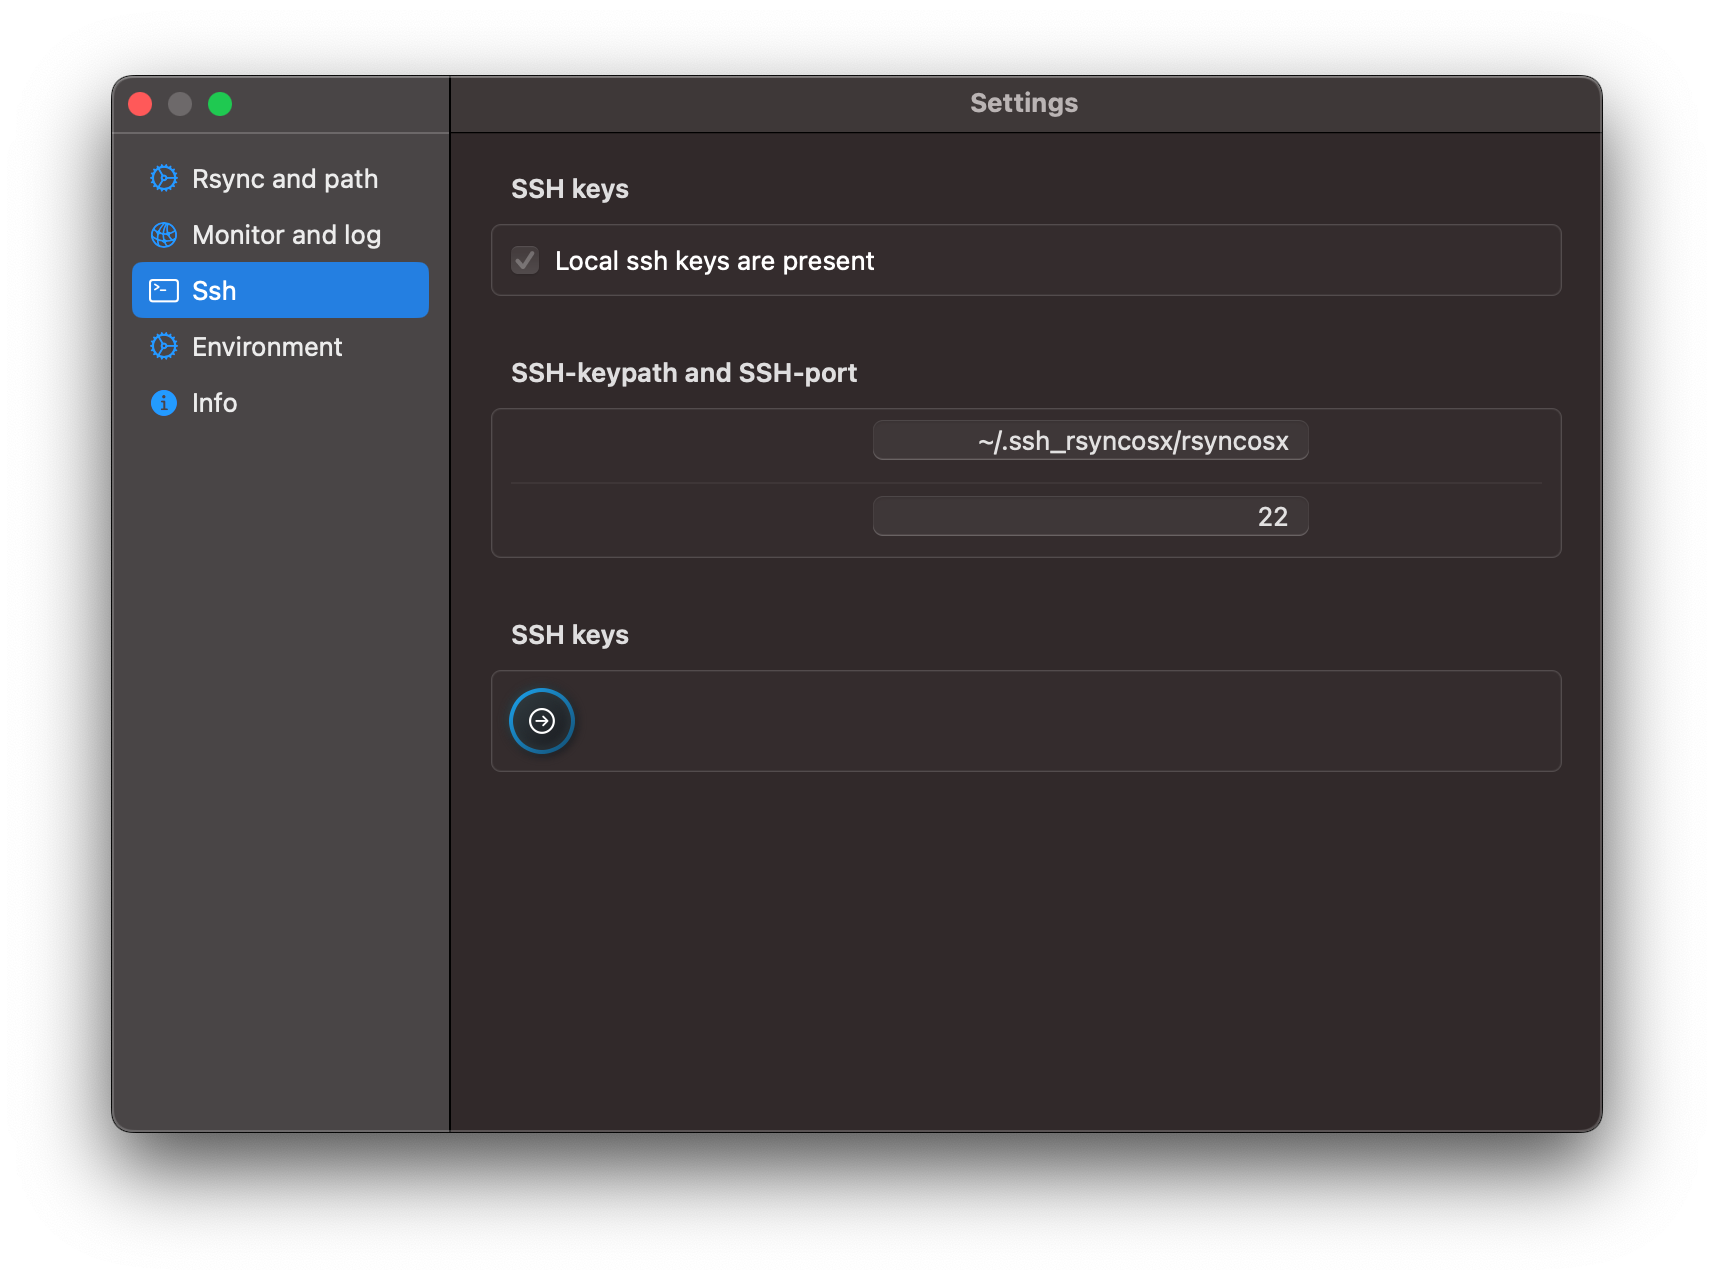
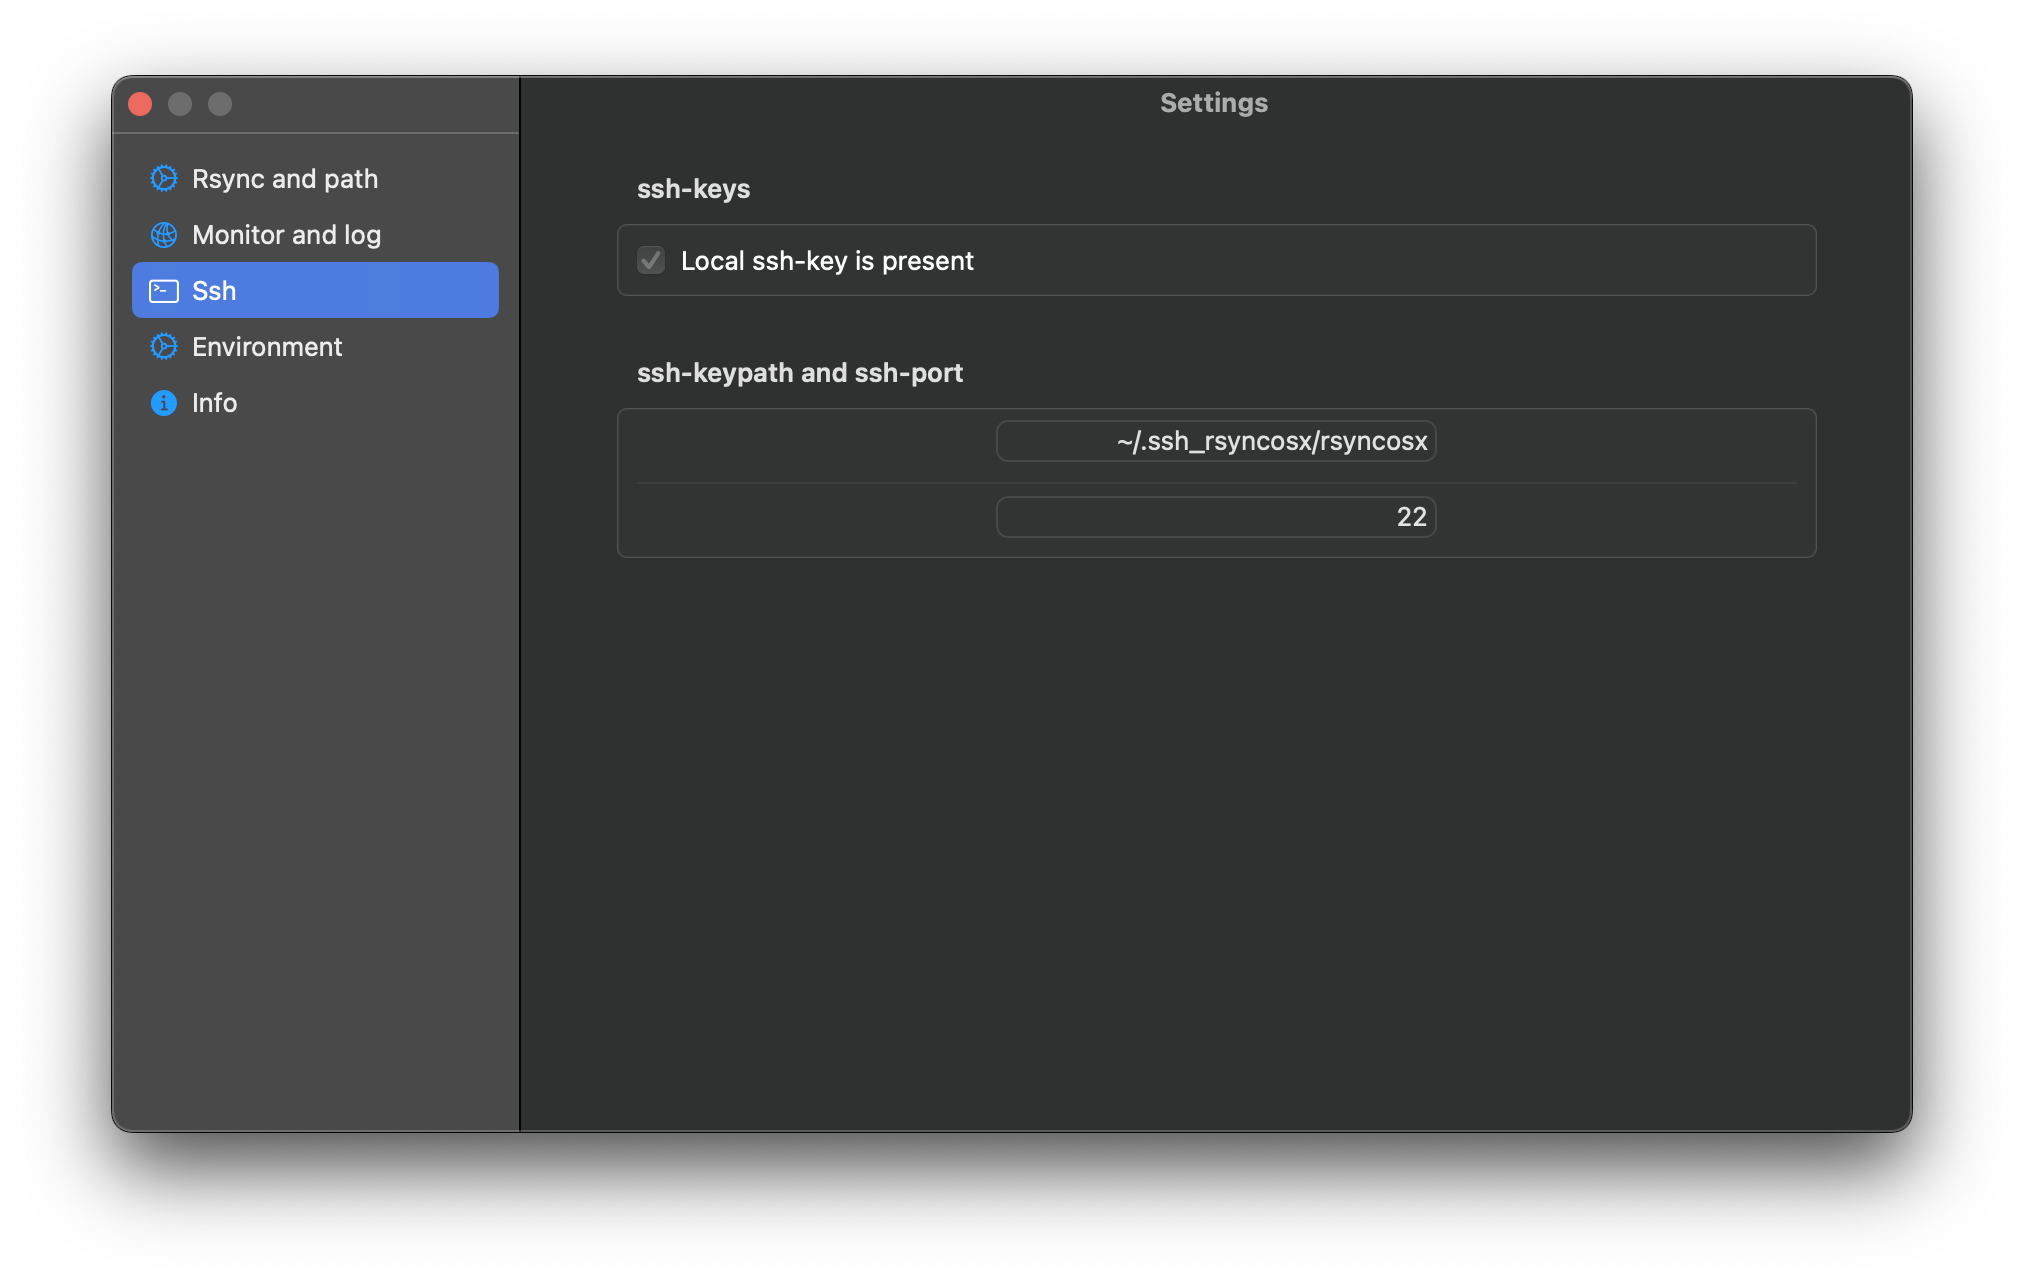
update

diff --git a/content/en/docs/settings/Sshsettings.md b/content/en/docs/settings/Sshsettings.md
@@ -10,9 +10,11 @@ lastmod = "2021-03-11"
 
 In this view you can let RsyncUI assist in creating ssh-keys and setup global ssh-keypath and identityfile. ssh-key is requiered for passwordless logins to remotes servers. You can either utilizing default values for ssh-keys or set your own. 
 
+There is some more info about [passwordless logins](/docs/ssh/).
+
 {{% /pageinfo %}}
 
-There is some more info [about ssh and passwordless logins](/docs/ssh/).
+
 
 {{< figure src="/images/usersettings/ssh.png" alt="" position="center" style="border-radius: 8px;" >}}
 
@@ -20,18 +22,18 @@ ssh keys
 
 {{< figure src="/images/usersettings/sshkeys.png" alt="" position="center" style="border-radius: 8px;" >}}
 
-## Local ssh keys found
+## Local ssh-key is present
 
-If `on` RsyncUI has found local ssh keys.
+If `on` RsyncUI has found a local ssh-key.
 
-Default values for ssh are `~/.ssh/id_rsa` and portnumber `22`. It is not required to set your own values for key path and identityfile if default values are used. If there are no local ssh keys selecting the `Create` button will create the keys. If ssh keys are found, either default values or by the user set keypath and identityfile, RsyncUI will mark it.
+Default values for RSA based ssh-key is `~/.ssh/id_rsa` and portnumber `22`. It is not required to set your own values for ssh-keypath and identityfile if default values are used. If there are no local ssh-key selecting the `Create` button will create the keys. If ssh-key is present, either default values or by the user set ssh-keypath and identityfile, RsyncUI will mark it.
 
-## Set ssh keypath and identityfile
+## Set ssh-keypath and identityfile
 
 The user can set a selected ssh keypath and identityfile which applies to all configurations.
 
+- ssh-keypath + identityfile, user selected if other than default
 - portnumber, which `ssh` communicates through
-- keypath + identityfile, user selected if other than default
 
 If global values are set, this is what the ssh parameter within the rsync command looks like
 

diff --git a/content/en/docs/settings/rsyncandpath.md b/content/en/docs/settings/rsyncandpath.md
@@ -40,10 +40,8 @@ Tasks with older execute date than number of days are marked red.
 
 ## Backup configurations
 
-You can any time backup the current setup, configurations and logs including all profiles by the `wrench` button. The backup executes a copy to your Documents catalog and postfixes the copy with a timestamp `-month-day-year/hour/minute`.
+You can any time backup the current setup, configurations and logs including all profiles by the `wrench` button. The backup executes a copy to your Documents catalog and postfixes the copy with a timestamp `-month-day-year/hour/minute`. 
 
-`$HOME/Documents/RsyncUIcopy-05-06-2021/08/21`
-
-When opening the catalog it might be seen as empty. The copy is a `.catalog` and your filebrowser might not see such catalogs.
+The backups is located in your Documents catalog: `$HOME/Documents/RsyncUIcopy-05-06-2021/08/21`
 
 

diff --git a/content/en/docs/ssh.md b/content/en/docs/ssh.md
@@ -1,8 +1,8 @@
 +++
 author = "Thomas Evensen"
 date = "2021-04-16"
-title = "Passwordless logins by ssh-keys"
-tags = ["passwordless","ssh-keys"]
+title = "Passwordless login"
+tags = ["passwordless","ssh-key"]
 categories = ["remote servers"]
 lastmod = "2020-04-16"
 +++
